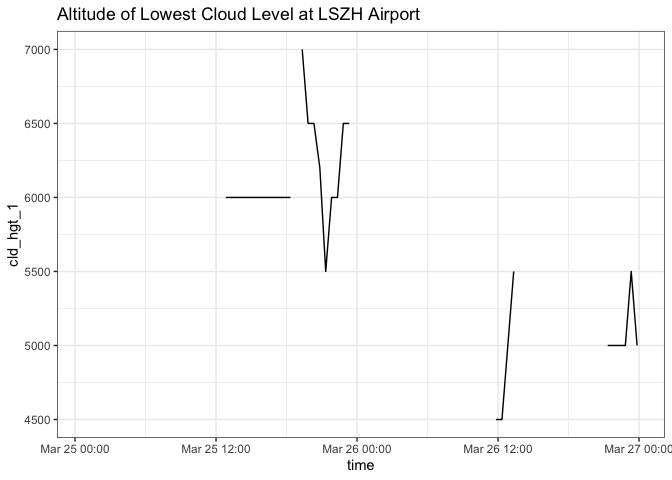
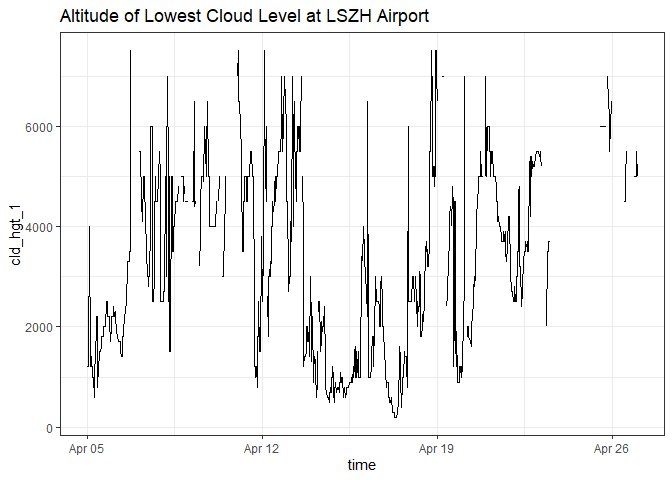
new readme

diff --git a/README.md b/README.md
@@ -1,0 +1,147 @@
+
+<!-- README.md is generated from README.Rmd. Please edit that file -->
+
+# metar
+
+The goal of **metar** is to provide an R-built parser for METAR reports.
+
+## Installation
+
+And the development version from [GitHub](https://github.com/) with:
+
+``` r
+# install.packages("devtools")
+devtools::install_github("m-saenger/metar")
+```
+
+## Example
+
+### Data retrieval and parsing
+
+``` r
+library(metar)
+## read raw data from Mesonet website
+dat <- read_mesonet("LSZH", as.POSIXct("2021-03-06"), as.POSIXct("2021-03-28"))
+## parse METAR code
+dat.parsed <- parse_metar(dat$metar)
+# Structure
+str(dat.parsed)
+#> Classes 'data.table' and 'data.frame':   1032 obs. of  24 variables:
+#>  $ icao       : chr  "LSZH" "LSZH" "LSZH" "LSZH" ...
+#>  $ time       : POSIXct, format: "2021-04-05 00:50:00" "2021-04-05 01:20:00" ...
+#>  $ auto       : chr  "0" "0" "0" "0" ...
+#>  $ cor        : chr  "0" "0" "0" "0" ...
+#>  $ wx         : chr  NA NA NA NA ...
+#>  $ dir        : int  250 NA NA 110 NA 140 190 90 NA 140 ...
+#>  $ ff         : num  4 2 2 2 2 3 2 2 2 3 ...
+#>  $ fx         : num  NA NA NA NA NA NA NA NA NA NA ...
+#>  $ dir_from   : int  NA NA NA NA NA NA NA NA NA NA ...
+#>  $ dir_to     : int  NA NA NA NA NA NA NA NA NA NA ...
+#>  $ vis        : num  9999 9999 9999 8000 7000 ...
+#>  $ ndv        : chr  NA NA NA NA ...
+#>  $ min_vis    : int  NA NA NA NA NA 500 NA NA NA NA ...
+#>  $ min_vis_dir: chr  NA NA NA NA ...
+#>  $ rvr        : chr  "" "" "" "" ...
+#>  $ vvis       : chr  NA NA NA NA ...
+#>  $ cld        : chr  "FEW012 BKN035" "FEW012 SCT030" "SCT040" "FEW040" ...
+#>  $ tt         : num  7 6 6 5 5 4 4 4 4 5 ...
+#>  $ td         : num  5 5 5 5 5 4 4 4 4 4 ...
+#>  $ pw         : chr  "" "" "" "MIFG" ...
+#>  $ qnh        : num  1019 1019 1019 1018 1018 ...
+#>  $ ws         : chr  NA NA NA NA ...
+#>  $ metar      : chr  "25004KT 9999 FEW012 BKN035 07/05 Q1019 NOSIG" "VRB02KT 9999 FEW012 SCT030 06/05 Q1019 NOSIG" "VRB02KT 9999 SCT040 06/05 Q1019 NOSIG" "11002KT 8000 MIFG FEW040 05/05 Q1018 NOSIG" ...
+#>  $ rmk        : chr  NA NA NA NA ...
+#>  - attr(*, ".internal.selfref")=<externalptr>
+```
+
+### Example plot
+
+``` r
+library(ggplot2)
+#> Warning: package 'ggplot2' was built under R version 4.0.4
+ggplot(dat.parsed, aes(time, tt)) +
+  geom_path() +
+  labs(title = "Recent Temperature at LSZH Airport") +
+  theme_bw()
+```
+
+<img src="man/figures/README-plot1-1.png" width="100%" />
+
+### Data processing (cloud groups)
+
+``` r
+# Process cloud groups (1-4)
+dat.cld <- metar_clouds(dat.parsed$cl)    
+dat.cld$time <- dat.parsed$time
+# Structure
+str(dat.cld)
+#> Classes 'data.table' and 'data.frame':   1032 obs. of  23 variables:
+#>  $ cld_levels : int  2 2 1 1 1 1 1 2 3 3 ...
+#>  $ cld_hgt_min: num  1200 1200 4000 4000 1200 1200 1400 1200 1200 1000 ...
+#>  $ cld_hgt_max: num  3500 3000 4000 4000 1200 1200 1400 5000 7500 7500 ...
+#>  $ cld_amt_max: chr  "BKN" "SCT" "SCT" "FEW" ...
+#>  $ cld_amt_min: chr  "FEW" "FEW" "SCT" "FEW" ...
+#>  $ ceiling    : num  3500 NA NA NA NA NA NA NA 7500 7500 ...
+#>  $ cld_str_1  : chr  "FEW012" "FEW012" "SCT040" "FEW040" ...
+#>  $ cld_str_2  : chr  "BKN035" "SCT030" NA NA ...
+#>  $ cld_str_3  : chr  NA NA NA NA ...
+#>  $ cld_str_4  : chr  NA NA NA NA ...
+#>  $ cld_amt_1  : chr  "FEW" "FEW" "SCT" "FEW" ...
+#>  $ cld_amt_2  : chr  "BKN" "SCT" NA NA ...
+#>  $ cld_amt_3  : chr  NA NA NA NA ...
+#>  $ cld_amt_4  : chr  NA NA NA NA ...
+#>  $ cld_hgt_1  : num  1200 1200 4000 4000 1200 1200 1400 1200 1200 1000 ...
+#>  $ cld_hgt_2  : num  3500 3000 NA NA NA NA NA 5000 3500 4000 ...
+#>  $ cld_hgt_3  : num  NA NA NA NA NA NA NA NA 7500 7500 ...
+#>  $ cld_hgt_4  : num  NA NA NA NA NA NA NA NA NA NA ...
+#>  $ cld_type_1 : chr  NA NA NA NA ...
+#>  $ cld_type_2 : chr  NA NA NA NA ...
+#>  $ cld_type_3 : chr  NA NA NA NA ...
+#>  $ cld_type_4 : chr  NA NA NA NA ...
+#>  $ time       : POSIXct, format: "2021-04-05 00:50:00" "2021-04-05 01:20:00" ...
+#>  - attr(*, ".internal.selfref")=<externalptr>
+ggplot(dat.cld, aes(time, cld_hgt_1)) +
+  geom_path() +
+  labs(title = "Altitude of Lowest Cloud Level at LSZH Airport") +
+  theme_bw()
+```
+
+<img src="man/figures/README-plot2-1.png" width="100%" />
+
+### METARgram
+
+``` r
+dat.1 <- cbind(dat.parsed, dat.parsed[, metar_pw(pw)])
+print(dat.1$FG)
+#>    [1] 0 0 0 1 1 1 0 1 0 0 0 0 0 0 0 0 0 0 0 0 0 0 0 0 0 0 0 0 0 0 0 0 0 0 0 0 0
+#>   [38] 0 0 0 0 0 0 0 0 0 0 0 0 0 0 0 0 0 0 0 0 0 0 0 0 0 0 0 0 0 0 0 0 0 0 0 0 0
+#>   [75] 0 0 0 0 0 0 0 0 0 0 0 0 0 0 0 0 0 0 0 0 0 0 0 0 0 0 0 0 0 0 0 0 0 0 0 0 0
+#>  [112] 0 0 0 0 0 0 0 0 0 0 0 0 0 0 0 0 0 0 0 0 0 0 0 0 0 0 0 0 0 0 0 0 0 0 0 0 0
+#>  [149] 0 0 0 0 0 0 0 0 0 0 0 0 0 0 0 0 0 0 0 0 0 0 0 0 0 0 0 0 0 0 0 0 0 0 0 0 0
+#>  [186] 0 0 0 0 0 0 0 0 0 0 0 0 0 0 0 0 0 0 0 0 0 0 0 0 0 0 0 0 0 0 0 0 0 0 0 0 0
+#>  [223] 0 0 0 0 0 0 0 0 0 0 0 0 0 0 0 1 1 1 1 0 0 0 0 1 1 1 0 0 0 0 0 0 0 0 0 0 0
+#>  [260] 0 0 0 0 0 0 0 0 0 0 0 0 0 0 0 0 0 0 0 0 0 0 0 0 0 0 0 0 0 0 0 0 0 0 0 0 0
+#>  [297] 0 0 0 0 0 0 0 0 0 0 0 0 0 0 0 0 0 0 0 0 0 0 0 0 0 0 0 0 0 0 0 0 0 0 0 0 0
+#>  [334] 0 0 0 0 0 0 0 0 0 0 0 0 0 0 0 0 0 0 0 0 0 0 0 0 0 0 0 0 0 0 0 0 0 0 0 0 0
+#>  [371] 0 0 0 0 0 0 0 0 0 0 0 0 0 0 0 0 0 0 0 0 0 0 0 0 0 0 0 0 0 0 0 0 0 0 0 0 0
+#>  [408] 0 0 0 0 0 0 0 0 0 0 0 0 0 0 0 0 0 0 0 0 0 0 0 0 0 0 0 0 0 0 0 0 0 0 0 0 0
+#>  [445] 0 0 0 0 0 0 0 0 0 0 0 0 0 0 0 0 0 0 0 0 0 0 0 0 0 0 0 0 0 0 0 0 0 0 0 0 0
+#>  [482] 0 0 0 0 0 0 0 0 0 0 0 0 0 0 0 0 0 0 0 0 0 0 0 0 0 0 0 0 0 0 0 0 0 0 0 0 0
+#>  [519] 0 0 0 0 0 0 0 0 0 0 0 0 0 0 0 0 0 0 0 0 0 0 0 0 0 0 0 0 0 0 0 0 0 0 0 0 0
+#>  [556] 0 0 0 0 0 0 0 0 0 0 0 0 0 0 0 0 0 0 0 0 0 0 0 0 0 0 0 0 0 0 0 0 0 0 0 0 0
+#>  [593] 0 0 0 0 0 0 0 0 0 0 0 0 0 0 0 0 0 0 0 0 0 0 0 0 0 0 0 0 0 0 0 0 0 0 0 0 0
+#>  [630] 0 0 0 0 0 0 0 0 0 0 0 0 0 0 0 0 0 0 0 0 0 0 0 0 0 0 0 0 0 0 0 0 0 0 0 0 0
+#>  [667] 0 0 0 0 0 0 0 0 0 0 0 0 0 0 0 0 0 0 0 0 0 0 0 0 0 0 0 0 0 0 0 0 0 0 0 0 0
+#>  [704] 0 0 0 0 0 0 0 0 0 0 0 0 0 0 0 0 0 0 0 0 0 0 0 0 0 0 0 0 0 0 0 0 0 0 0 0 0
+#>  [741] 0 0 0 0 0 0 0 0 0 0 0 0 0 0 0 0 0 0 0 0 0 0 0 0 0 0 0 0 0 0 0 0 0 0 0 0 0
+#>  [778] 0 0 0 0 0 0 0 0 0 0 0 0 0 0 0 0 0 0 0 0 0 0 0 0 0 0 0 0 0 0 0 0 0 0 0 0 0
+#>  [815] 0 0 0 0 0 0 0 0 0 0 0 0 0 0 0 0 0 0 0 0 0 0 0 0 0 0 0 0 0 0 0 0 0 0 0 0 0
+#>  [852] 0 0 0 0 0 0 0 0 0 0 0 0 0 0 0 0 0 0 0 0 0 0 0 0 0 0 0 0 0 0 0 0 0 0 0 0 0
+#>  [889] 0 0 0 0 0 0 0 0 0 0 0 1 0 0 0 0 0 0 0 0 0 0 0 0 0 0 0 0 0 0 0 0 0 0 0 0 0
+#>  [926] 0 0 0 0 0 0 0 0 0 0 0 0 0 0 0 0 0 0 0 0 0 1 0 0 0 0 0 0 0 0 0 0 0 0 0 0 0
+#>  [963] 0 0 0 0 0 0 0 0 0 0 0 0 0 0 0 0 0 0 0 0 0 0 0 0 0 0 0 0 0 0 0 0 0 0 0 0 0
+#> [1000] 0 0 0 0 0 0 0 0 0 0 0 0 0 0 0 0 0 0 0 0 0 0 0 0 0 0 0 0 0 0 0 0 0
+plot_metargram(dat = dat.1, cex = .8)
+```
+
+<img src="man/figures/README-plot3-1.png" width="100%" />
